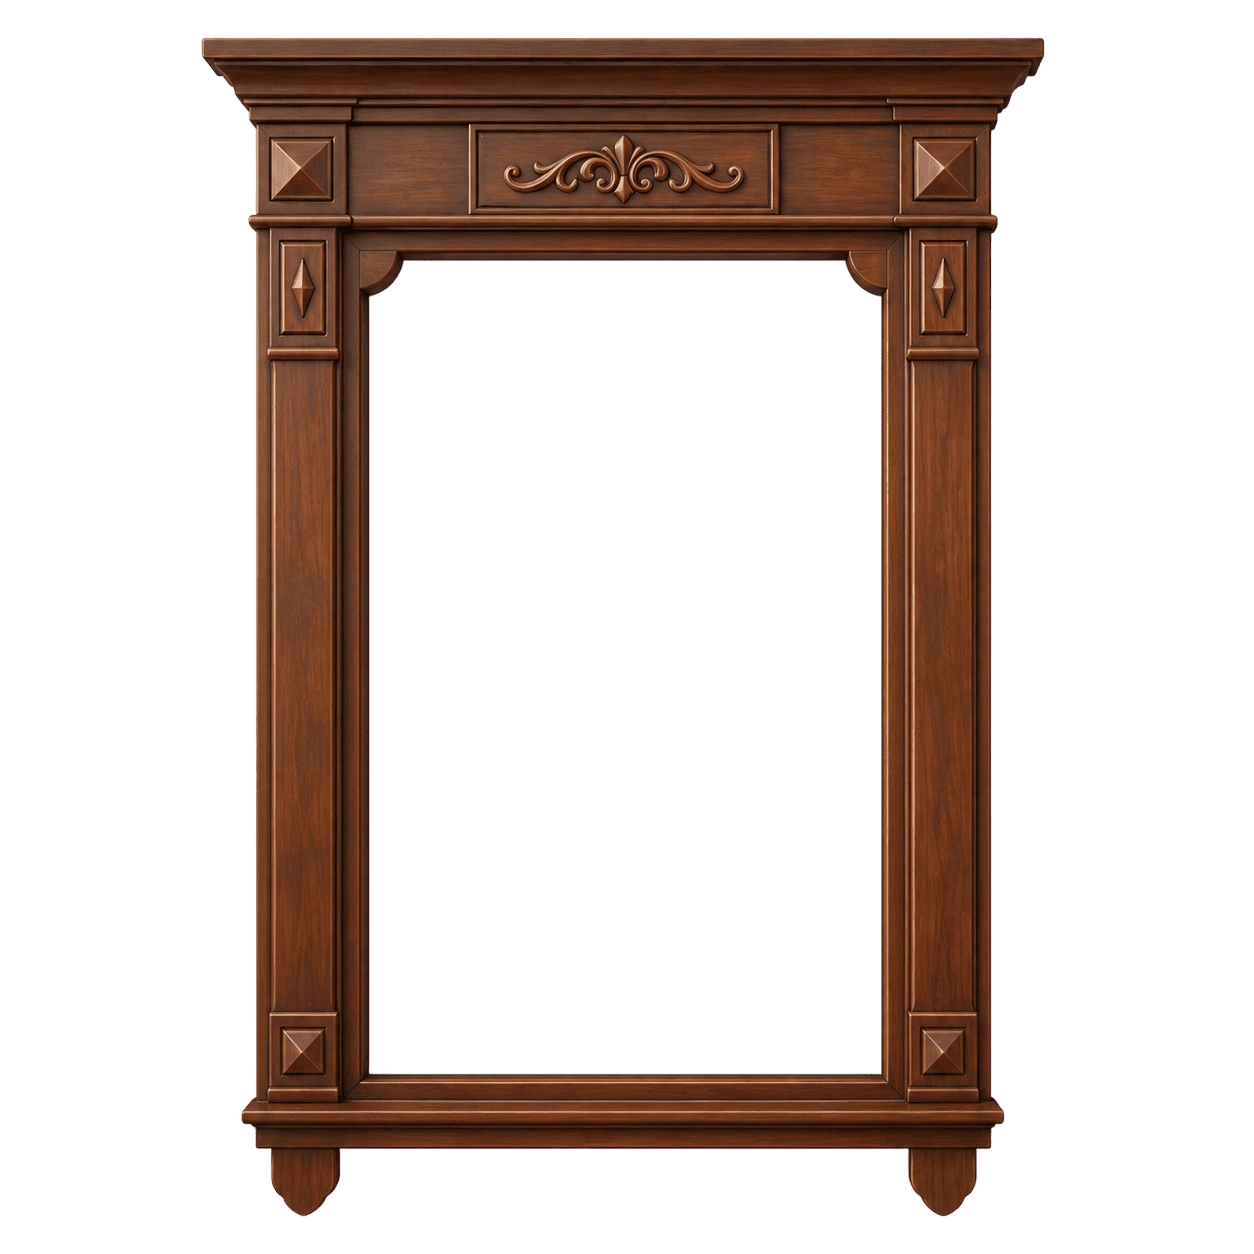
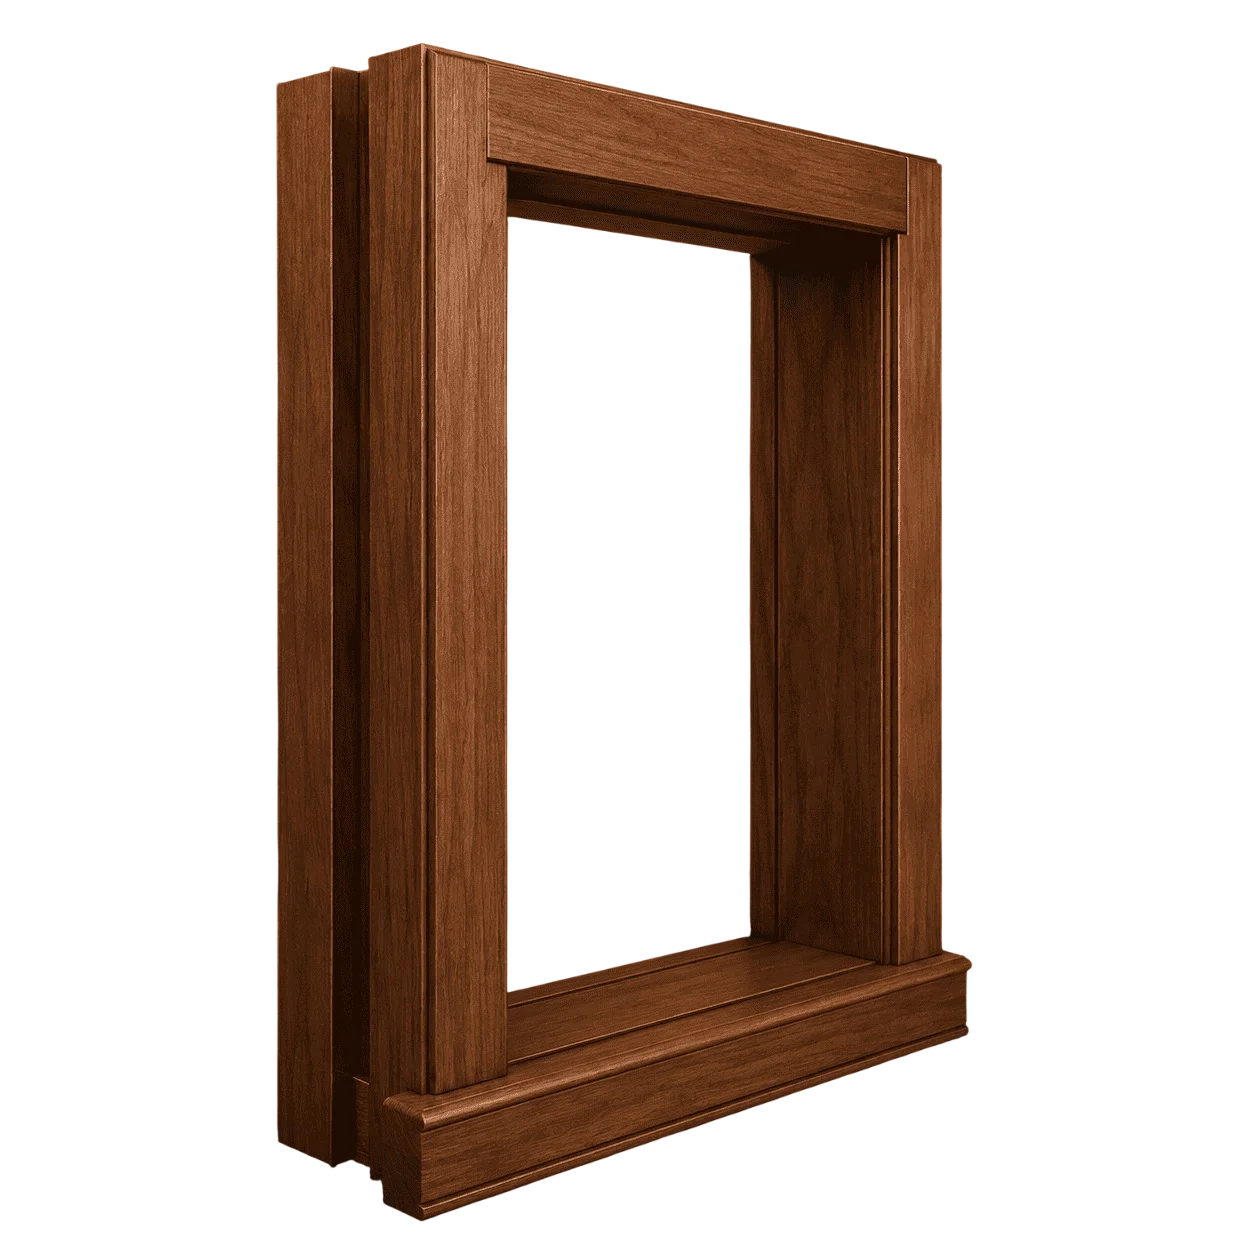
Correct dekor product plan price formatting

diff --git a/app/helpers.php b/app/helpers.php
@@ -1765,7 +1765,7 @@ function product_plan_price(string $slug): string
         'nalichniki' => 'от 7 000 ₽',
         'portaly-i-arki' => 'от 500 000 ₽',
         'obsady' => 'от 200 000 ₽',
-        'dekor' => '1 000–8 000 ₽',
+        'dekor' => 'от 1 000–8 000 ₽',
         'malye-arhitekturnye-formy-mafy' => 'от 20 000 ₽',
         'barnye-stojki-stoleshnicy' => 'от 300 000 ₽',
         'dekor-fasadov-ograzhdenij-balkonov' => 'от 300 000 ₽',